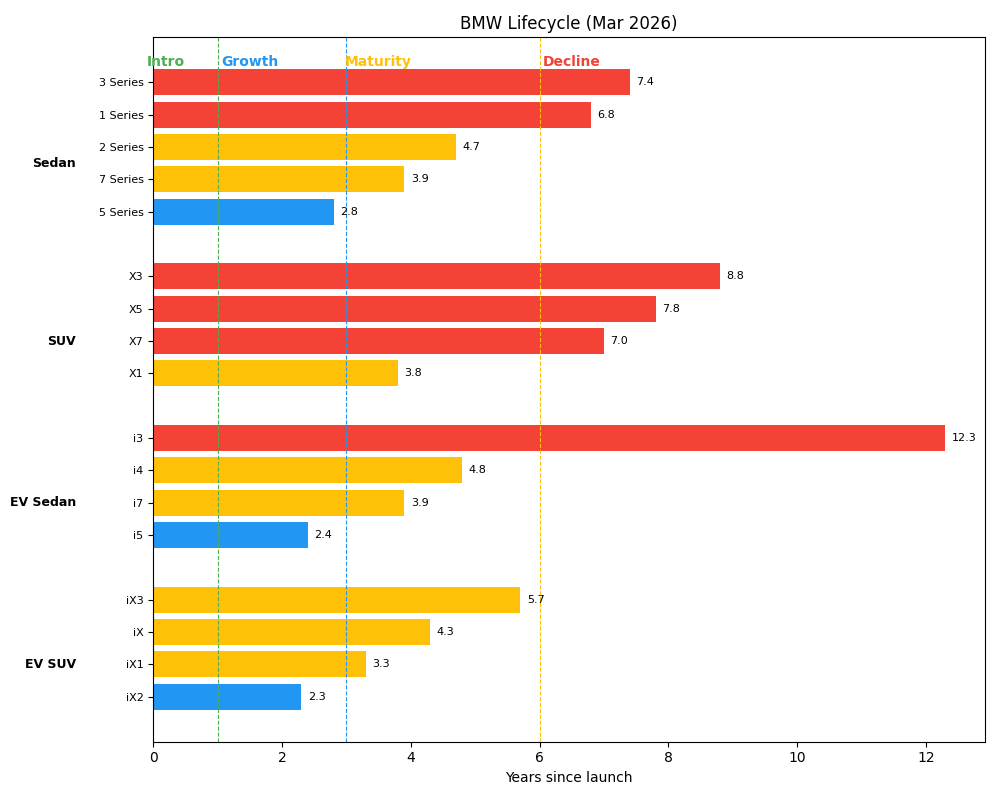
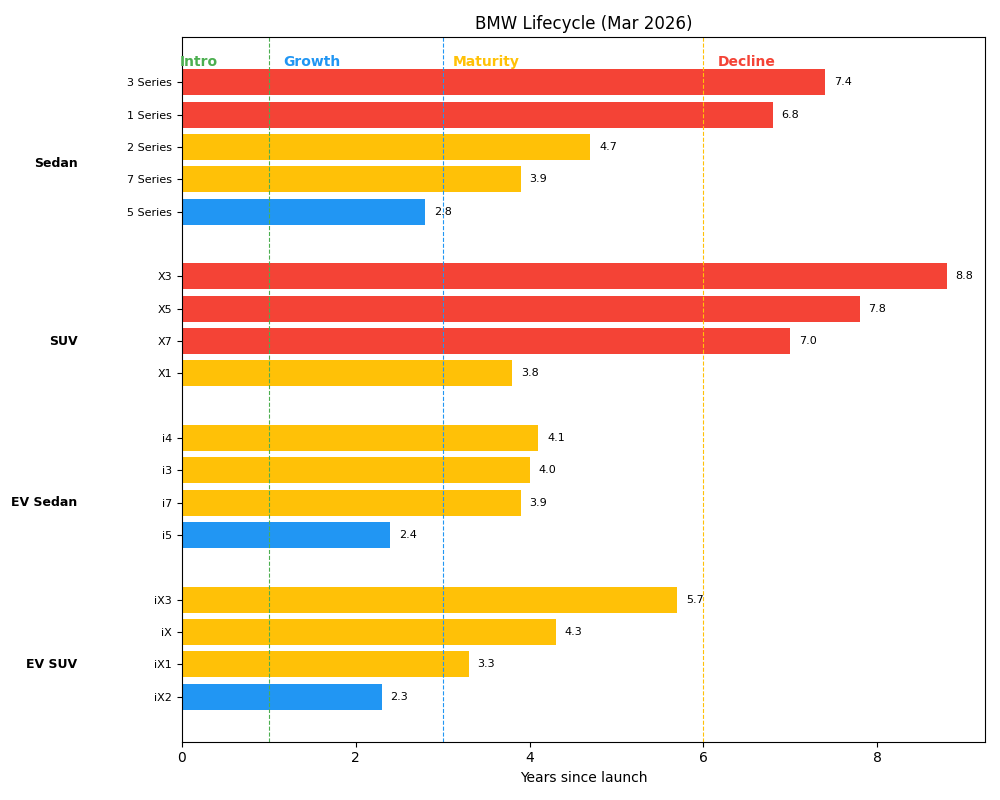
Update lifecycle plots with latest EV model changes

diff --git a/life_cycle.py b/life_cycle.py
@@ -109,10 +109,9 @@ mercedes = {
     },
     "EV Sedan": {},
     "EV SUV": {
-        "EQC": "2019-05",
+        "EQC": "2019-11",
         "EQA": "2021-10",
         "EQB": "2022-03",
-        "EQV": "2022-06",
         "EQE": "2021-09",
         "EQS": "2021-04"
     }
@@ -159,10 +158,10 @@ bmw = {
         "X7": "2019-03"
     },
     "EV Sedan": {
-        "i4": "2021-06",
+        "i4": "2022-02",
         "i7": "2022-04",
         "i5": "2023-10",
-        "i3": "2013-11"
+        "i3": "2022-03"
     },
     "EV SUV": {
         "iX3": "2020-07",
